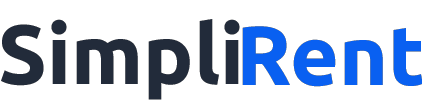
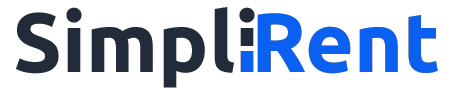
added the listing component

diff --git a/src/pages/Listing.jsx b/src/pages/Listing.jsx
@@ -1,0 +1,63 @@
+import { doc, getDoc } from "firebase/firestore";
+import React, { useEffect, useState } from "react";
+import { useParams } from "react-router";
+import Spinner from "../Components/Spinner";
+import { db } from "../firebase";
+import { Swiper, SwiperSlide } from "swiper/react";
+import SwiperCrore, {
+  EffectFade,
+  Autoplay,
+  Pagination,
+  Navigation,
+} from "swiper";
+import "swiper/css/bundle";
+
+export default function Listing() {
+  //variables
+  const params = useParams();
+  // hooks
+  const [loading, setLoading] = useState(true);
+  const [listing, setListing] = useState(null);
+  // we will want to use pagination, navigation and pagination
+  SwiperCrore.use([Pagination, Navigation, Autoplay]);
+  useEffect(() => {
+    async function fetchListing() {
+      setLoading(true);
+      const docRef = doc(db, "listings", params.listingId);
+      const docSnap = await getDoc(docRef);
+      //  check if the data exit we will now setLoading to false
+      if (docSnap) {
+        setListing(docSnap.data());
+        setLoading(false);
+      }
+    }
+    fetchListing();
+  }, []);
+
+  if (loading) {
+    return <Spinner />;
+  } else
+    return (
+      <Swiper
+        slidesPerView={1}
+        navigation
+        pagination={{ type: "progressbar" }}
+        effect="fade"
+        modules={[EffectFade]}
+        autoplay={{ delay: 5000 }}
+      >
+        {listing.imgUrls.map((url, index) => (
+          <SwiperSlide>
+            <div
+              className=" relative w-full overflow-hidden h-[400px] object-cover"
+              key={index}
+              style={{
+                background: `url(${listing.imgUrls[index]}) center no-repeat`,
+                backgroundSize: "cover",
+              }}
+            ></div>
+          </SwiperSlide>
+        ))}
+      </Swiper>
+    );
+}

diff --git a/src/pages/Profile.jsx b/src/pages/Profile.jsx
@@ -189,7 +189,7 @@ export default function Profile() {
             placeholder={email}
             onChange={onChange}
           />
-          <div className=" flex justify-between items-center whitespace-nowrap w-[40%] mb-3 ">
+          <div className="flex justify-between items-center whitespace-nowrap w-[40%] mb-3 ">
             <button
               type="text"
               className="bg-primary text-white font-semibold px-3 py-2 rounded ease-in-out duration-800"
@@ -212,7 +212,7 @@ export default function Profile() {
         <h1 className="text-center text-primary md:4xl font-semibold">
           My Listing
         </h1>
-        {loading && <SkeletonGrid className="w-full" />}
+        {loading && <SkeletonGrid className=" " />}
         {!loading && listings.length > 0 && (
           <div>
             <ul className="grid sm:grid-cols-2 lg:grid-cols-3 gap-8">

diff --git a/src/Components/Navbar.jsx b/src/Components/Navbar.jsx
@@ -13,10 +13,11 @@ export default function Navbar() {
   // hooks
   const [pageStatus, setPageStatus] = useState(false);
   useEffect(() => {
+    setPageStatus(false);
     onAuthStateChanged(auth, (user) => {
       if (user) setPageStatus(true);
     });
-  }, [auth]);
+  });
 
   const PathName = (routes) => {
     if (routes === Location.pathname) return true;
@@ -26,7 +27,7 @@ export default function Navbar() {
       <header className=" flex justify-between items-center p-4 max-w-6xl mx-auto ">
         <div>
           <img
-            className="h-8 cursor-pointer"
+            className="h-10 cursor-pointer"
             src={SimpliRent}
             alt="Logo"
             onClick={() => Navigate("/")}

diff --git a/src/App.jsx b/src/App.jsx
@@ -13,6 +13,7 @@ import "./App.css";
 import PrivateRoute from "./Components/PrivateRoute";
 import CreateListing from "./pages/CreateListing";
 import EditListing from "./pages/EditListing";
+import Listing from "./pages/Listing";
 
 function App() {
   return (
@@ -35,6 +36,11 @@ function App() {
             />
           </Route>
 
+          <Route
+            exact
+            path="/category/:categoryName/:listingId"
+            element={<Listing />}
+          />
           <Route exact path="/sign-in" element={<SignIn />} />
           <Route exact path="/sing-up" element={<SignUp />} />
           <Route exact path="/forget-password" element={<ForgetPassword />} />

diff --git a/src/pages/EditListing.jsx b/src/pages/EditListing.jsx
@@ -168,12 +168,12 @@ export default function EditListing() {
     };
     delete formDataCopy.images;
     !formDataCopy.offer && delete formDataCopy.discount;
-    // adding a new document to the database
+    // updating the document on the database document to the database
     const docRef = doc(db, "listings", params.listingId);
     await updateDoc(docRef, formDataCopy);
     docRef && setLoading(false);
     navigate(`/category/${formDataCopy.type}/${docRef.id}`);
-    toast.success("Edited created");
+    toast.success("Edited");
   }
 
   //

diff --git a/src/Components/SkeletonGrid.jsx b/src/Components/SkeletonGrid.jsx
@@ -3,12 +3,11 @@ import ContentLoader from "react-content-loader";
 
 const SkeletonGrid = (props) => (
   <ContentLoader
-    width={800}
-    height={575}
     viewBox="0 0 800 575"
     backgroundColor="#f3f3f3"
     foregroundColor="#262626"
     {...props}
+    className="w-full h-screen"
   >
     <rect x="537" y="9" rx="2" ry="2" width="140" height="10" />
     <rect x="14" y="30" rx="2" ry="2" width="667" height="11" />
